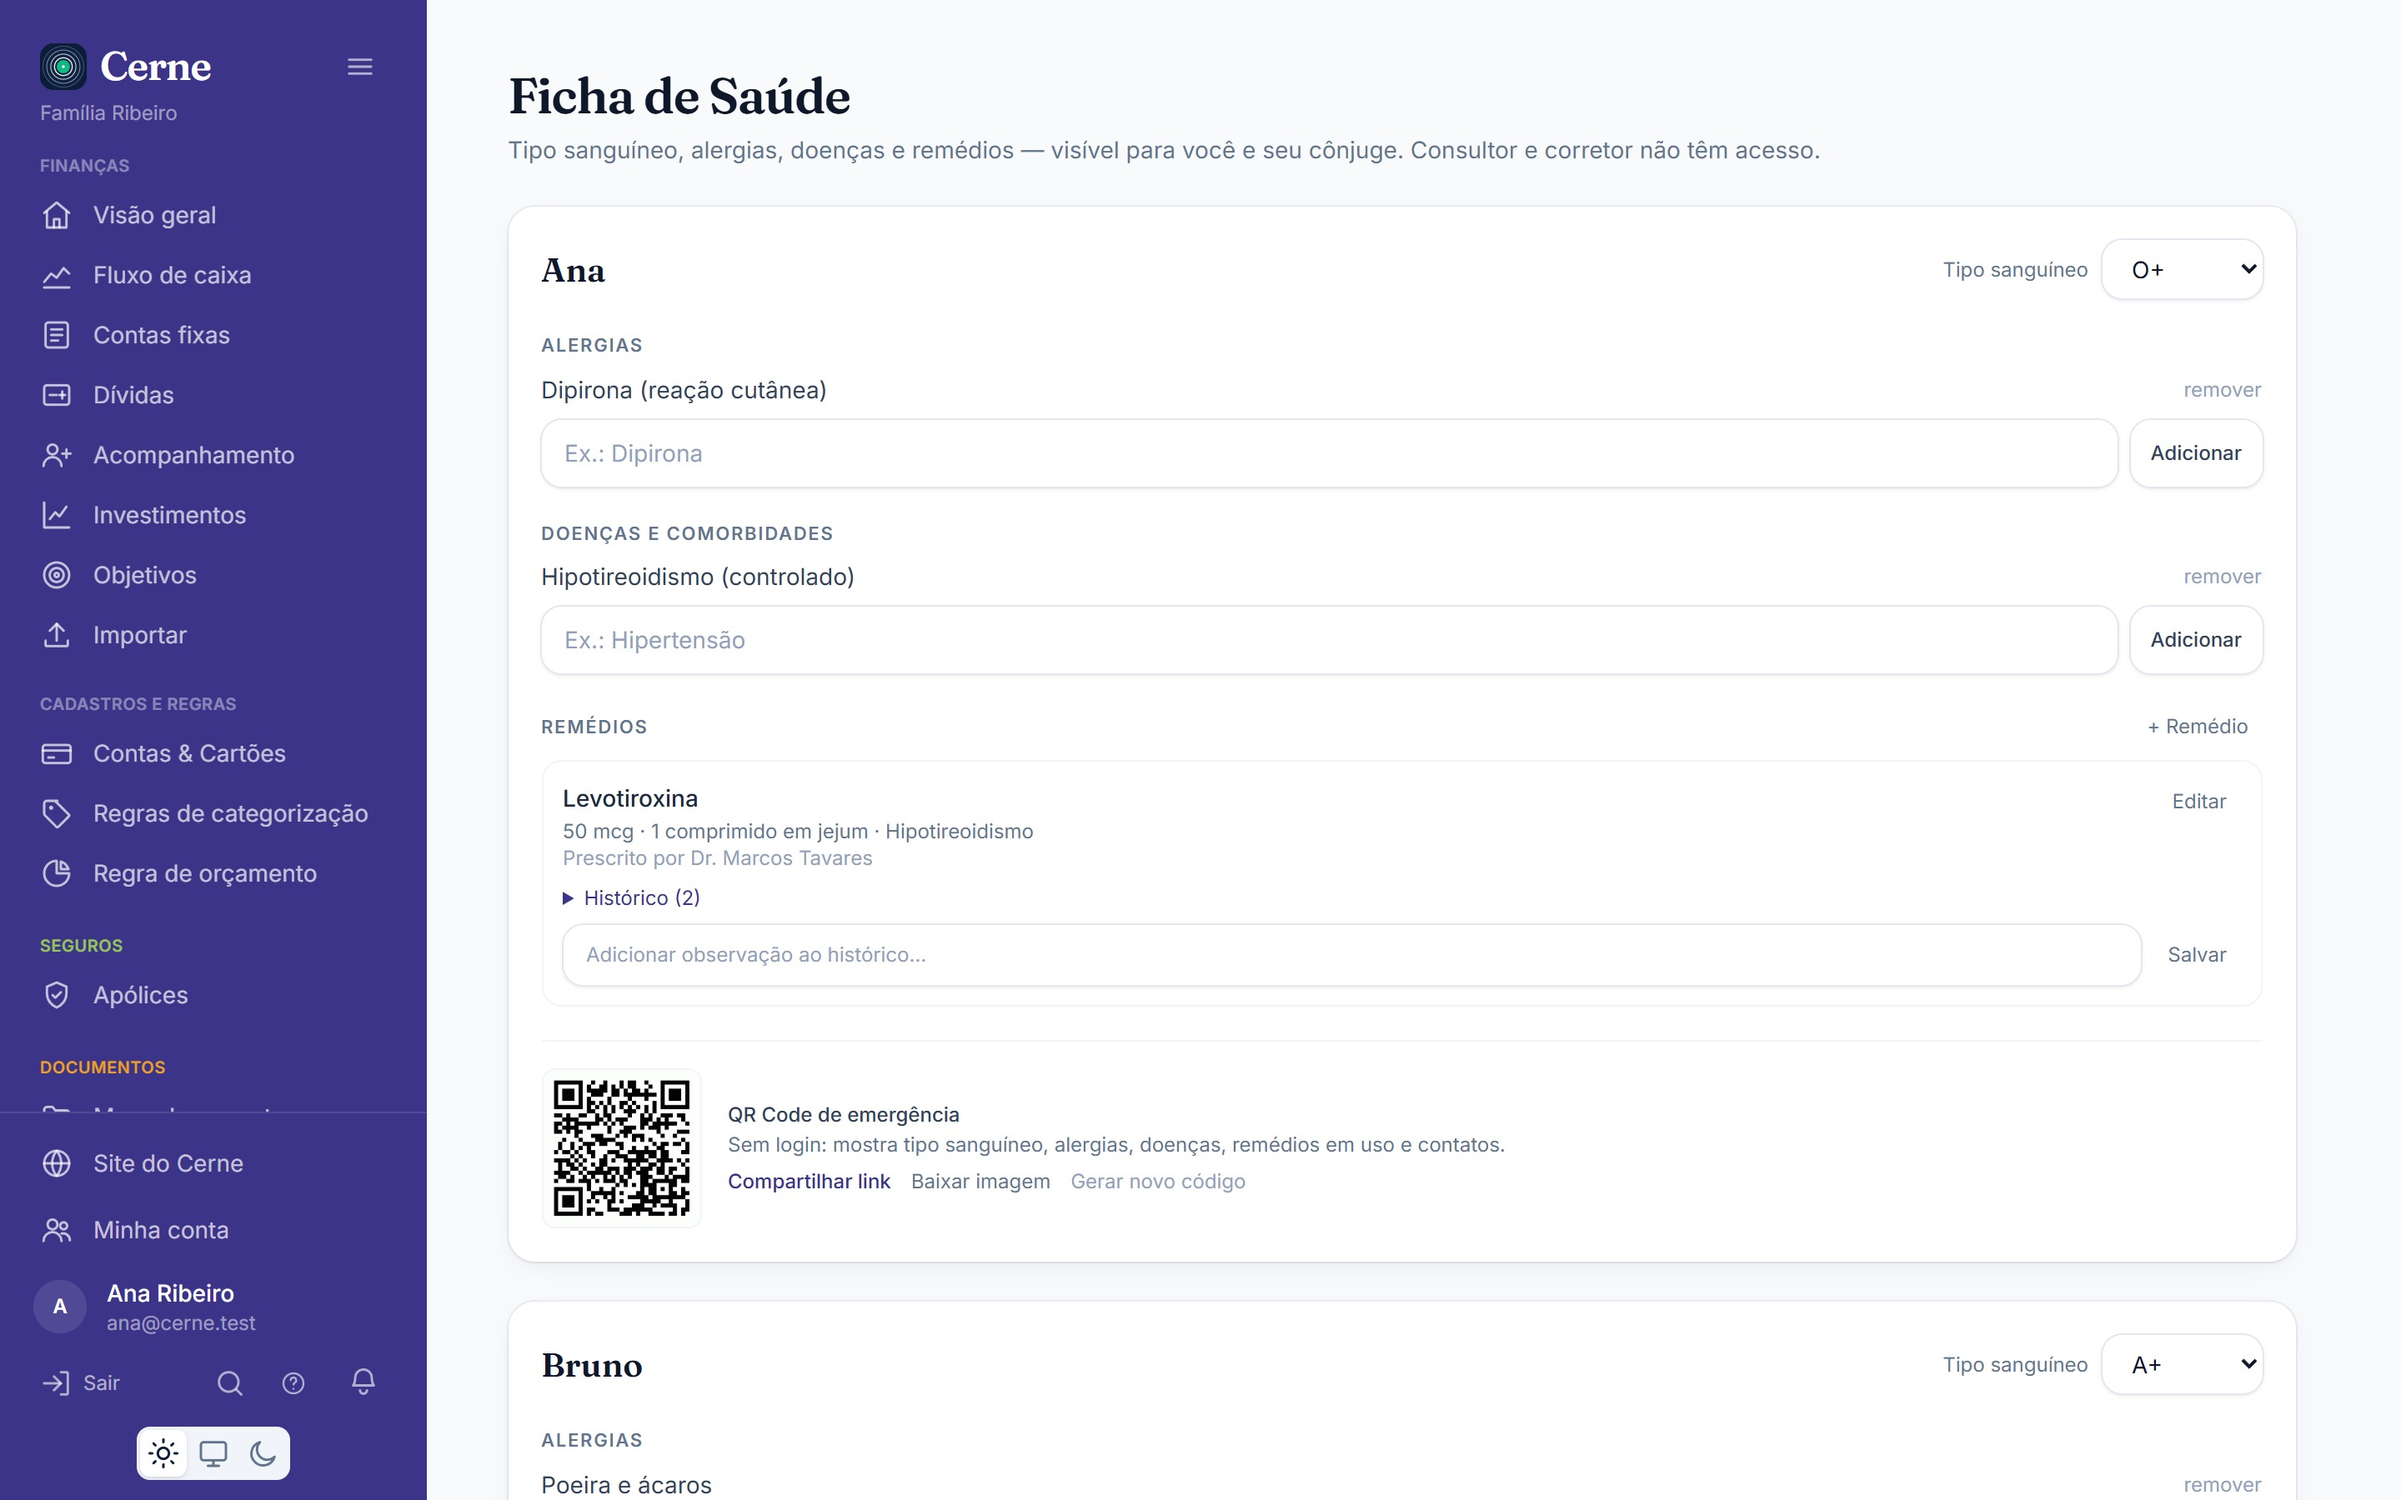
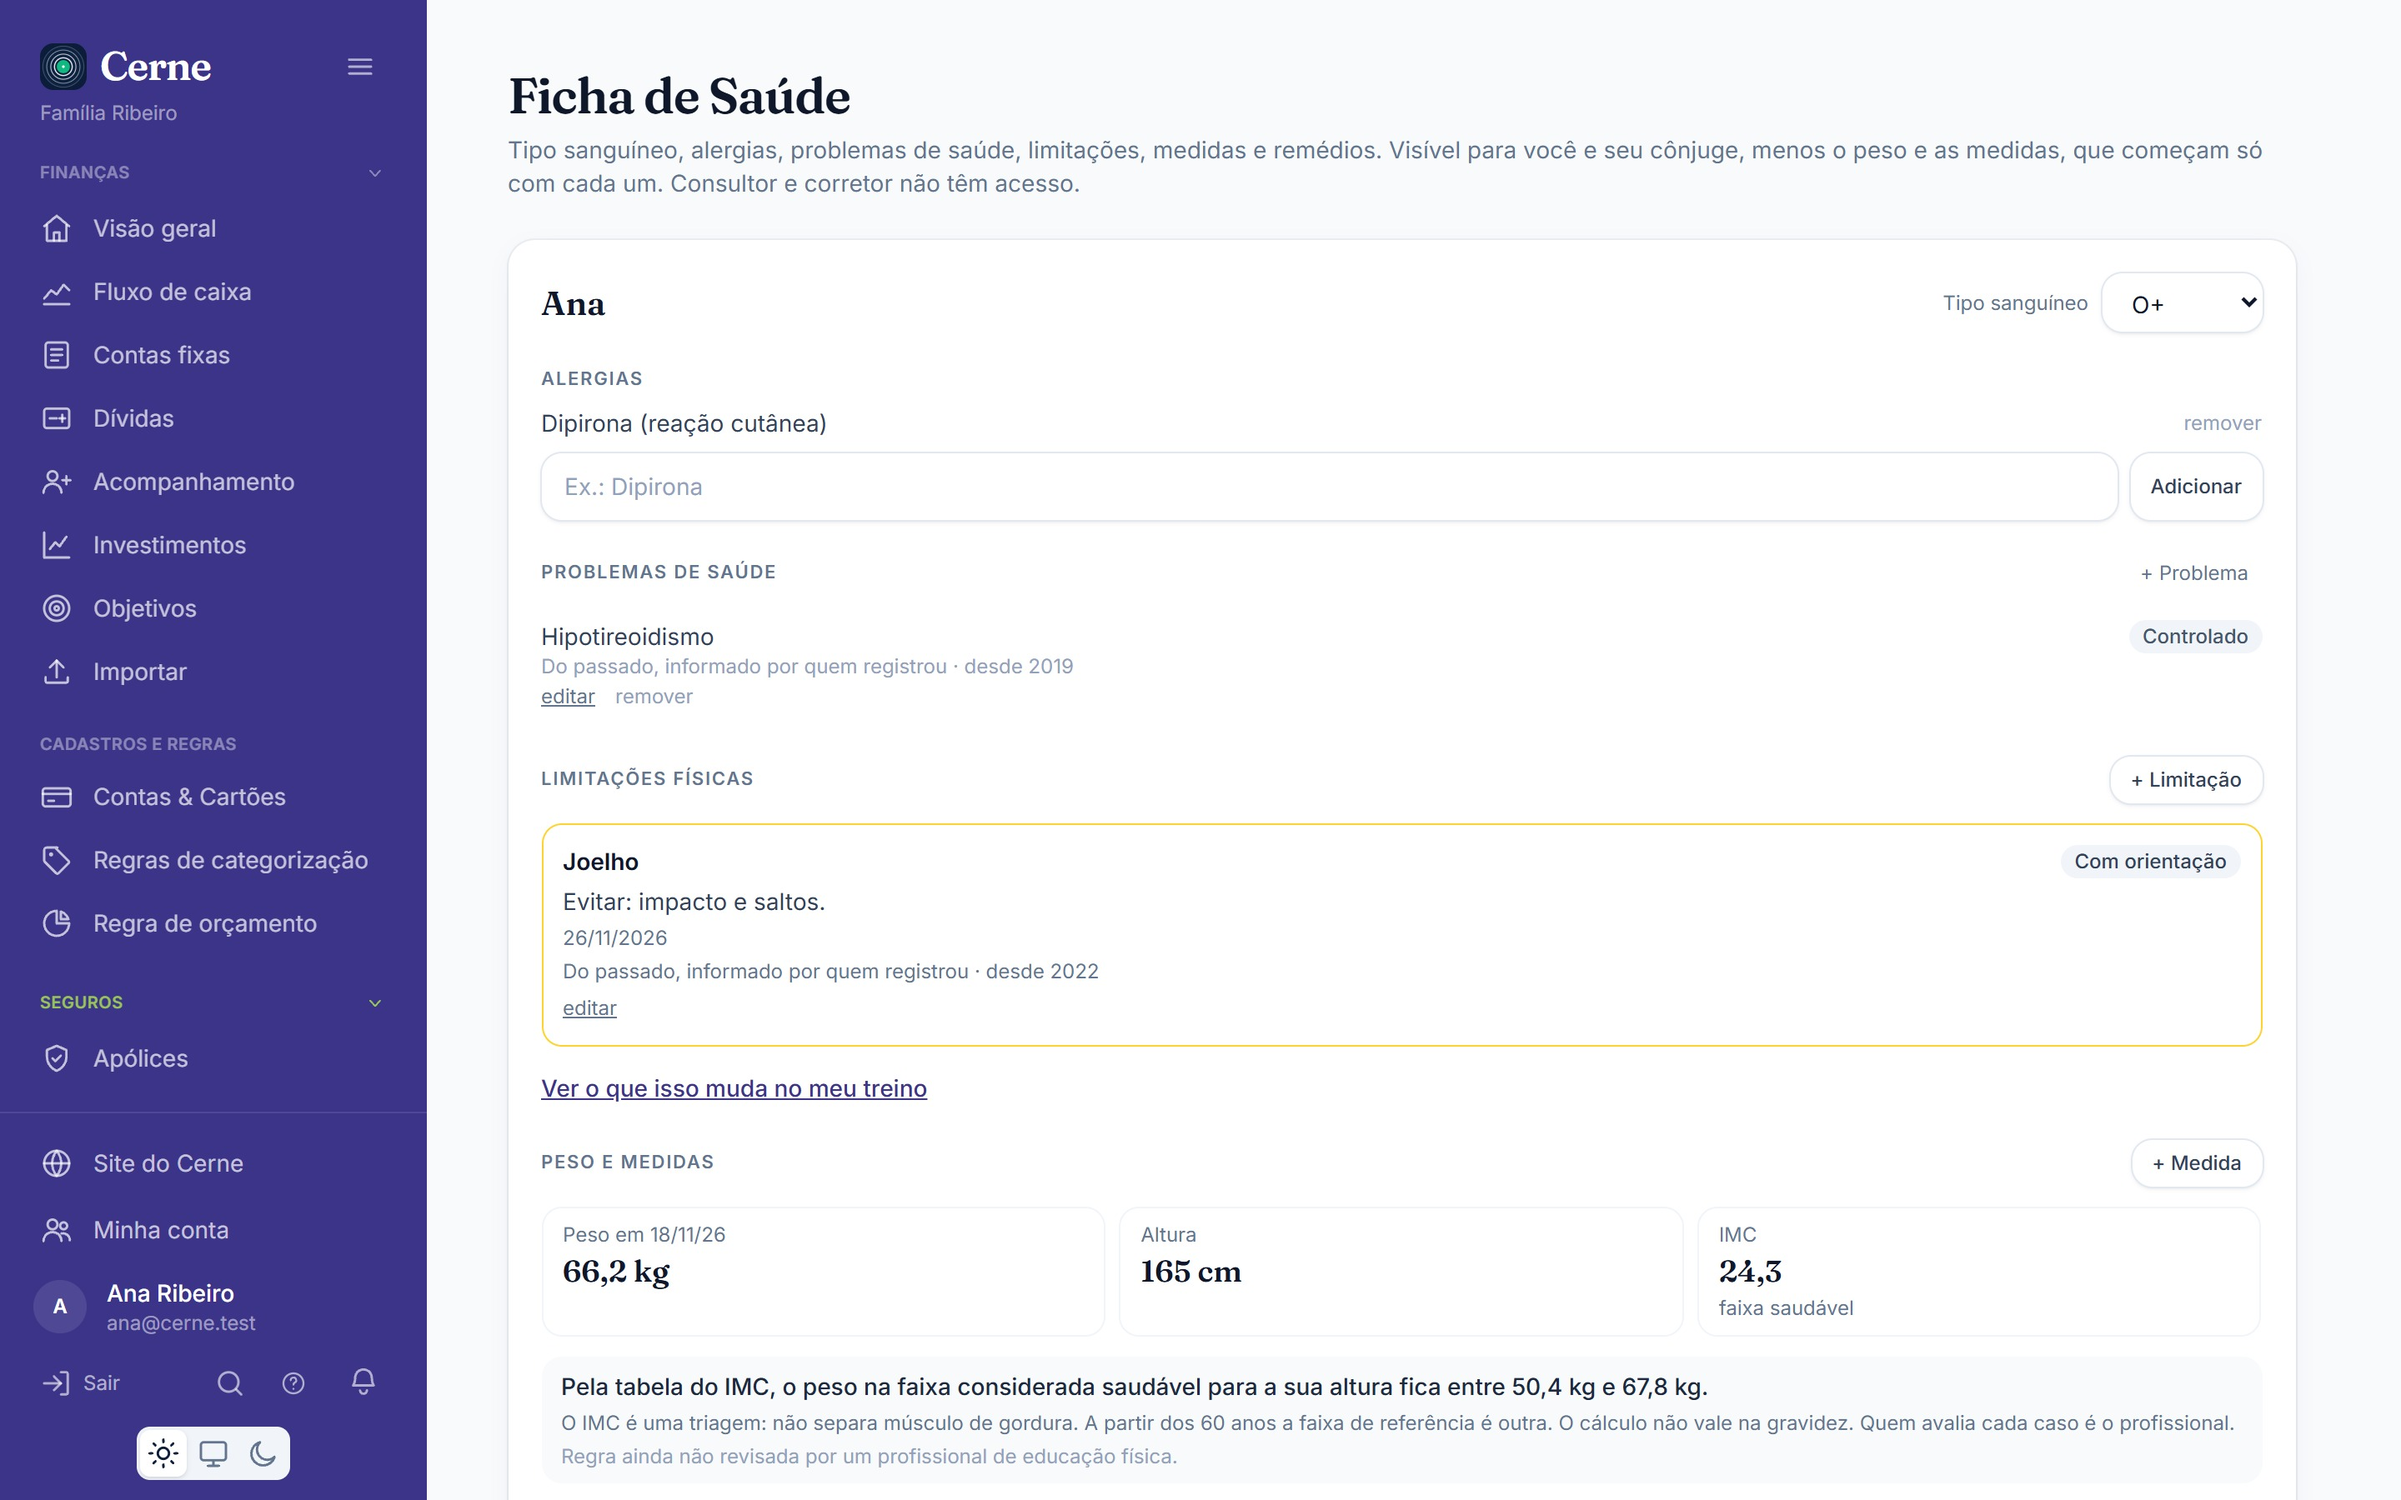
Limitacao: guardar o desde quando e a origem de consulta ou exame; capturas novas da Ficha de Saude e das Atividades no site
O model PhysicalLimitation nao aceitava since_year, appointment_id e exam_report_id: fora do ambiente local os tres eram descartados sem
aviso. Todos os testes passam a recusar campo nao declarado, para esse tipo de falha aparecer na suite. Capturas do site refeitas com dados
ficticios e descricao da imagem da ficha ajustada.

diff --git a/resources/views/landing.blade.php b/resources/views/landing.blade.php
@@ -34,7 +34,7 @@
             'CNH, passaporte, certificados, apólices e exames, com a validade de cada um e controle de quem vê. O seu consultor ou corretor só enxerga o que você autorizar.', 'bg-documentos-800'],
         ['saude-agenda', 'Agenda de saúde', 'saude-agenda', 'Agenda de consultas e exames com lembretes', 'Consultas e exames, sem esquecer',
             'Consultas e exames com quem atende, onde fica e como chegar, lembrete um dia antes e atalho para o Google Agenda ou arquivo de calendário. Cada pessoa da família na sua cor.', 'bg-saude-800'],
-        ['saude-ficha', 'Ficha de saúde', 'saude-ficha', 'Ficha de saúde com QR Code de emergência', 'O essencial, à mão em uma emergência',
+        ['saude-ficha', 'Ficha de saúde', 'saude-ficha', 'Ficha de saúde com problemas, limitações físicas, peso e IMC', 'O essencial, à mão em uma emergência',
             'Tipo sanguíneo, alergias, problemas de saúde, limitações e remédios, com peso e IMC em um histórico só seu, mais um QR Code: quem ler vê o que importa em uma emergência, sem precisar de login.', 'bg-saude-800'],
         ['saude', 'Atividades', 'saude', 'Semana de atividades no Cerne, com academia, tênis e caminhada', 'Sua semana de atividades',
             'Esportes, academia, caminhada e corrida na mesma semana. Monte o treino ou gere um automático pelo seu objetivo, registre o que fez e acompanhe a carga e a evolução. Se houver uma limitação na sua Saúde, o Cerne sugere o que pausar, e você decide. O plano da semana junta musculação, aeróbico e descanso a partir do que você já faz. Só você vê as suas atividades.', 'bg-saude-800'],
@@ -213,7 +213,7 @@
             </div>
 
             <div class="space-y-4">
-                <x-screenshot-frame src="{{ $marketingImage('saude-ficha') }}" alt="Ficha de saúde com QR Code de emergência" />
+                <x-screenshot-frame src="{{ $marketingImage('saude-ficha') }}" alt="Ficha de saúde com problemas, limitações físicas, peso e IMC" />
                 <p class="text-xs text-slate-500 dark:text-slate-400">A saúde só é tratada com o seu consentimento específico, pedido antes de você abrir a área, e você pode revogá-lo quando quiser.</p>
             </div>
         </div>

diff --git a/tests/Feature/HealthRecordPlannerTest.php b/tests/Feature/HealthRecordPlannerTest.php
@@ -22,6 +22,8 @@ use App\Livewire\Rules\RuleReviewPage;
 use App\Models\ActivityPlan;
 use App\Models\ConsultantClient;
 use App\Models\FinancialProfile;
+use App\Models\HealthAppointment;
+use App\Models\HealthExamReport;
 use App\Models\GymPlanAdjustment;
 use App\Models\GymWorkout;
 use App\Models\GymWorkoutExercise;
@@ -245,6 +247,22 @@ class HealthRecordPlannerTest extends TestCase
 
         $this->assertNull($ligada->fresh()->followup_id);
         $this->assertSame(2, PhysicalLimitation::query()->count());
+    }
+
+    public function test_limitacao_guarda_desde_quando_e_a_origem_de_consulta_ou_exame(): void
+    {
+        $consulta = HealthAppointment::create(['member_id' => $this->membroAna->id, 'kind' => 'consultation', 'title' => 'Ortopedista', 'scheduled_at' => '2026-11-10 10:00', 'status' => 'done']);
+        $laudo = HealthExamReport::create(['member_id' => $this->membroAna->id, 'performed_on' => '2026-11-12', 'kind' => 'conclusion', 'exam_name' => 'Ressonância', 'conclusion' => 'Texto do laudo']);
+
+        foreach (['appointment:'.$consulta->id => ['appointment_id', $consulta->id], 'exam:'.$laudo->id => ['exam_report_id', $laudo->id]] as $origem => [$coluna, $id]) {
+            Livewire::test(LimitationPanel::class, ['memberId' => $this->membroAna->id, 'newFrom' => $origem])
+                ->set('region', 'knee')->set('status', 'guided')->set('sinceYear', '2022')
+                ->call('save')->assertHasNoErrors();
+
+            $limitacao = PhysicalLimitation::query()->whereNotNull($coluna)->sole();
+            $this->assertSame($id, $limitacao->{$coluna});
+            $this->assertSame(2022, (int) $limitacao->since_year);
+        }
     }
 
     // --- Prontidão ------------------------------------------------------------------------------

diff --git a/app/Models/PhysicalLimitation.php b/app/Models/PhysicalLimitation.php
@@ -16,12 +16,13 @@ use Illuminate\Database\Eloquent\Model;
 use Illuminate\Database\Eloquent\Relations\BelongsTo;
 
 /**
- * Uma limitação física, dentro de um acompanhamento: a região, a situação, o que evitar e o que o profissional disse. Mesma visibilidade da
- * Agenda de Saúde. Os programas de atividades da pessoa leem daqui; o que eles mudam por causa dela fica com eles e é só dela.
+ * Uma limitação física: a região, a situação, o que evitar e o que o profissional disse. Pode estar em um acompanhamento, vir de uma consulta ou
+ * de um exame, ou ser do passado. Mesma visibilidade da Agenda de Saúde. Os programas de atividades da pessoa leem daqui; o que eles mudam por
+ * causa dela fica com eles e é só dela.
  */
 #[Fillable([
-    'profile_id', 'member_id', 'followup_id', 'region', 'status', 'avoid', 'guidance', 'professional', 'professional_id', 'informed_on', 'answers',
-    'created_by_member_id', 'created_by_user_id', 'changed_by_user_id',
+    'profile_id', 'member_id', 'followup_id', 'appointment_id', 'exam_report_id', 'since_year', 'region', 'status', 'avoid', 'guidance',
+    'professional', 'professional_id', 'informed_on', 'answers', 'created_by_member_id', 'created_by_user_id', 'changed_by_user_id',
 ])]
 class PhysicalLimitation extends Model
 {

diff --git a/tests/TestCase.php b/tests/TestCase.php
@@ -2,9 +2,17 @@
 
 namespace Tests;
 
+use Illuminate\Database\Eloquent\Model;
 use Illuminate\Foundation\Testing\TestCase as BaseTestCase;
 
 abstract class TestCase extends BaseTestCase
 {
-    //
+    protected function setUp(): void
+    {
+        parent::setUp();
+
+        // Como no ambiente local: campo que o model não aceita vira erro. Em produção ele é descartado SEM AVISO, e foi assim que o "desde
+        // quando" e a origem de uma limitação se perderam com a suíte inteira verde.
+        Model::preventSilentlyDiscardingAttributes(true);
+    }
 }

diff --git a/CLAUDE.md b/CLAUDE.md
@@ -811,12 +811,16 @@ de regressão para isso — não "modernize" o login para Livewire.
 php artisan test
 ```
 
-Cerca de 1600 testes (rodam em uns 10 minutos; no Windows, rode em segundo plano).
+Cerca de 3200 testes (rodam em uns 25 minutos; no Windows, rode em segundo plano).
 **Verde é obrigatório**, não desejável. Se algo ficou vermelho, o conserto é o código
 novo — não o teste. Para iterar, filtre: `php artisan test --filter=NomeDoTeste`.
 
 Os testes usam o MySQL local (`cerne_test`). Se `php artisan test` falhar com
 "connection refused", o servidor local caiu: suba o `mysqld` antes.
+
+**Campo novo em model entra no `#[Fillable]`.** Fora do ambiente local, atribuir em massa um campo não declarado é descartado **sem aviso** (já se perdeu assim o "desde quando"
+e a origem de uma limitação, com a suíte verde). Por isso o `Tests\TestCase` liga `Model::preventSilentlyDiscardingAttributes`: não desligue, e o teste de um campo novo
+**confere o que foi gravado**.
 
 Ao mexer em model, rota ou listagem, confira que ainda passam:
 `TenancyIsolationTest`, `TenancyCoverageTest`, `MemberPrivacyTest`,
